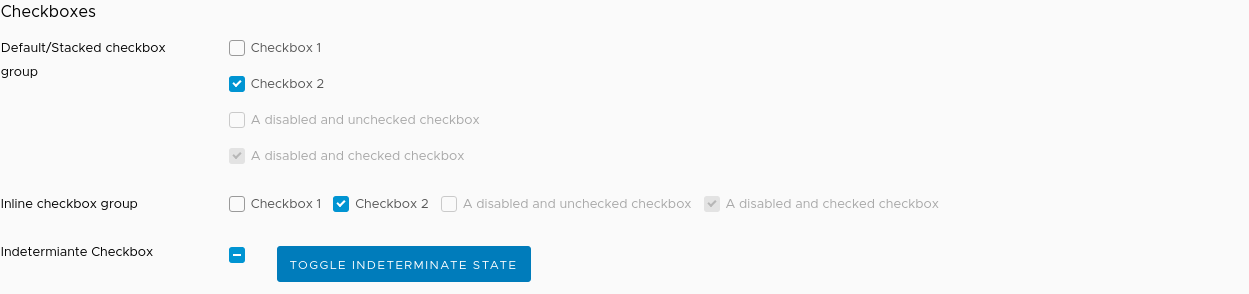
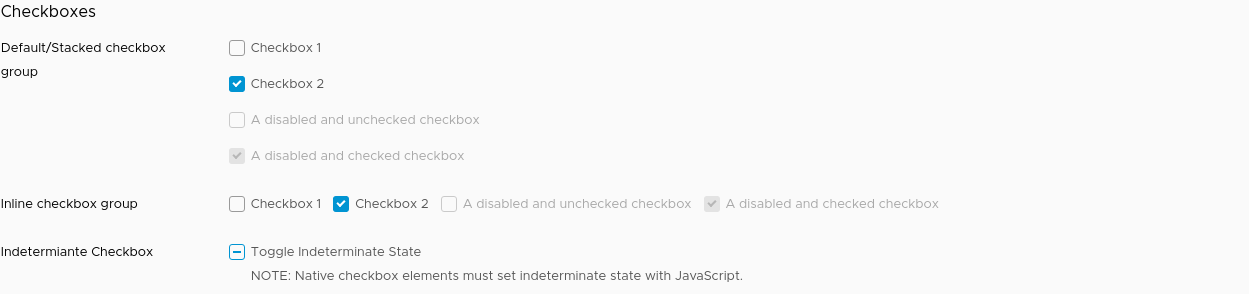
[ui] Updates CheckBox style for indeterminate state

Changed region(s): [[0.1873, 0.8265, 0.5933, 0.9796]]

diff --git a/src/clarity/checkboxes/demo/checkboxes.demo.html b/src/clarity/checkboxes/demo/checkboxes.demo.html
@@ -48,10 +48,14 @@
         <div class="form-group">
             <label>Indetermiante Checkbox</label>
             <div class="checkbox-inline">
-                <clr-checkbox type="checkbox" id="checkbox_9" [clrIndeterminate]="indeterminateState"></clr-checkbox>
-                <label for="checkrads_8">
-                    <button class="btn btn-primary" (click)="onToggleIndeterminateState($event)">Toggle Indeterminate State</button>
-                </label>
+                <clr-checkbox type="checkbox" id="checkbox_9" [clrIndeterminate]="indeterminateState">
+                    <div (click)="onToggleIndeterminateState($event)">
+                        Toggle Indeterminate State
+                    </div>
+                    <div>
+                        NOTE: Native checkbox elements must set indeterminate state with JavaScript.
+                    </div>
+                </clr-checkbox>
             </div>
         </div>
     </section>
@@ -98,6 +102,16 @@
             &lt;div class=&quot;checkbox-inline disabled&quot;&gt;
                 &lt;input type=&quot;checkbox&quot; id=&quot;checkrads_8&quot; disabled checked&gt;
                 &lt;label for=&quot;checkrads_8&quot;&gt;A disabled and checked checkbox&lt;/label&gt;
+            &lt;/div&gt;
+            &lt;div class="form-group"&gt;
+            &lt;label&gt;Indetermiante Checkbox&lt;/label&gt;
+            &lt;div class="checkbox-inline"&gt;
+                &lt;clr-checkbox type="checkbox" id="checkbox_9" [clrIndeterminate]="indeterminateState"&gt;
+                    &lt;span (click)="onToggleIndeterminateState($event)"&gt;
+                        Toggle Indeterminate State
+                        &lt;!--&lt;button class="btn btn-primary btn-sm" (click)="onToggleIndeterminateState($event)"&gt;Toggle Indeterminate State&lt;/button&gt;--&gt;
+                    &lt;/span&gt;
+                &lt;/clr-checkbox&gt;
             &lt;/div&gt;
         &lt;/div&gt;
     &lt;/section&gt;

diff --git a/src/clarity/forms/_forms.clarity.scss b/src/clarity/forms/_forms.clarity.scss
@@ -17,6 +17,7 @@ $clr-form-disabled-background-color: $clr-light-midtone-gray !default;
 $clr-form-field-disabled-color: $clr-gray !default;
 $clr-checkbox-radio-height: $clr-icon-dimension-sm !default;
 $clr-form-icon-dim: $clr-icon-dimension-sm !default;
+$clr-indeterminate-checkbox-border-color: $clr-action-blue-light-midtone !default;
 $clr-custom-checkbox-radio-top: ($clr_baselineRem_1 - $clr-checkbox-radio-height) / 2 !default;
 
 //Standard Clarity Input Bottom Border Animation
@@ -451,12 +452,12 @@ $clr-custom-checkbox-radio-top: ($clr_baselineRem_1 - $clr-checkbox-radio-height
         }
 
         input[type="checkbox"]:indeterminate + label::before {
-            background: $clr-form-field-background-color;
-            border: none;
+            border: 1px solid $clr-indeterminate-checkbox-border-color;
         }
         input[type="checkbox"]:indeterminate + label::after {
-            display: inline-block;
             border-left: none;
+            border-bottom-color: $clr-indeterminate-checkbox-border-color;
+            display: inline-block;
             transform: translate(0, $clr-checkbox-radio-height/4);
         }
 
